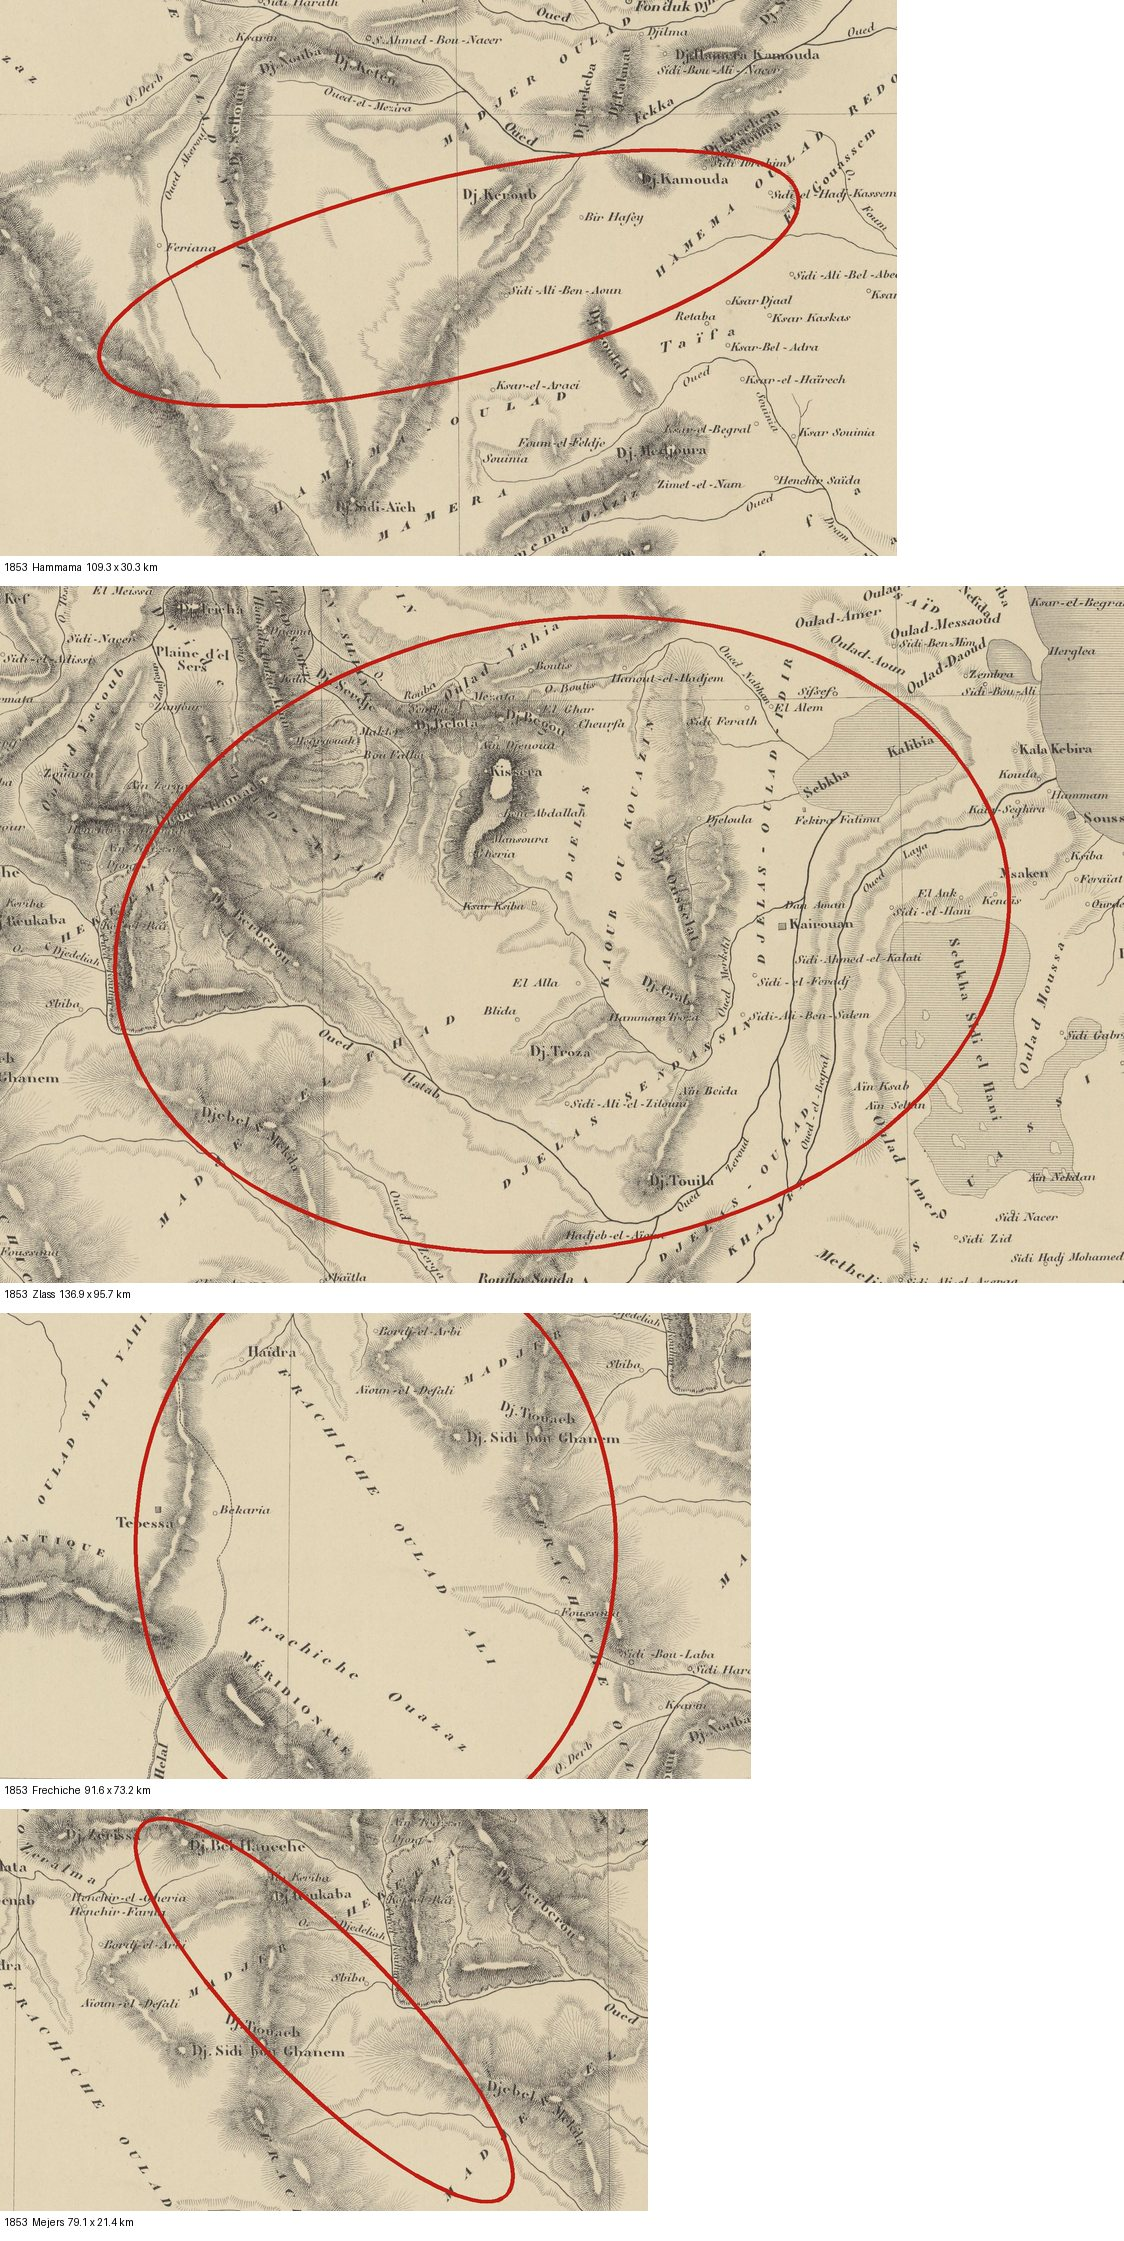
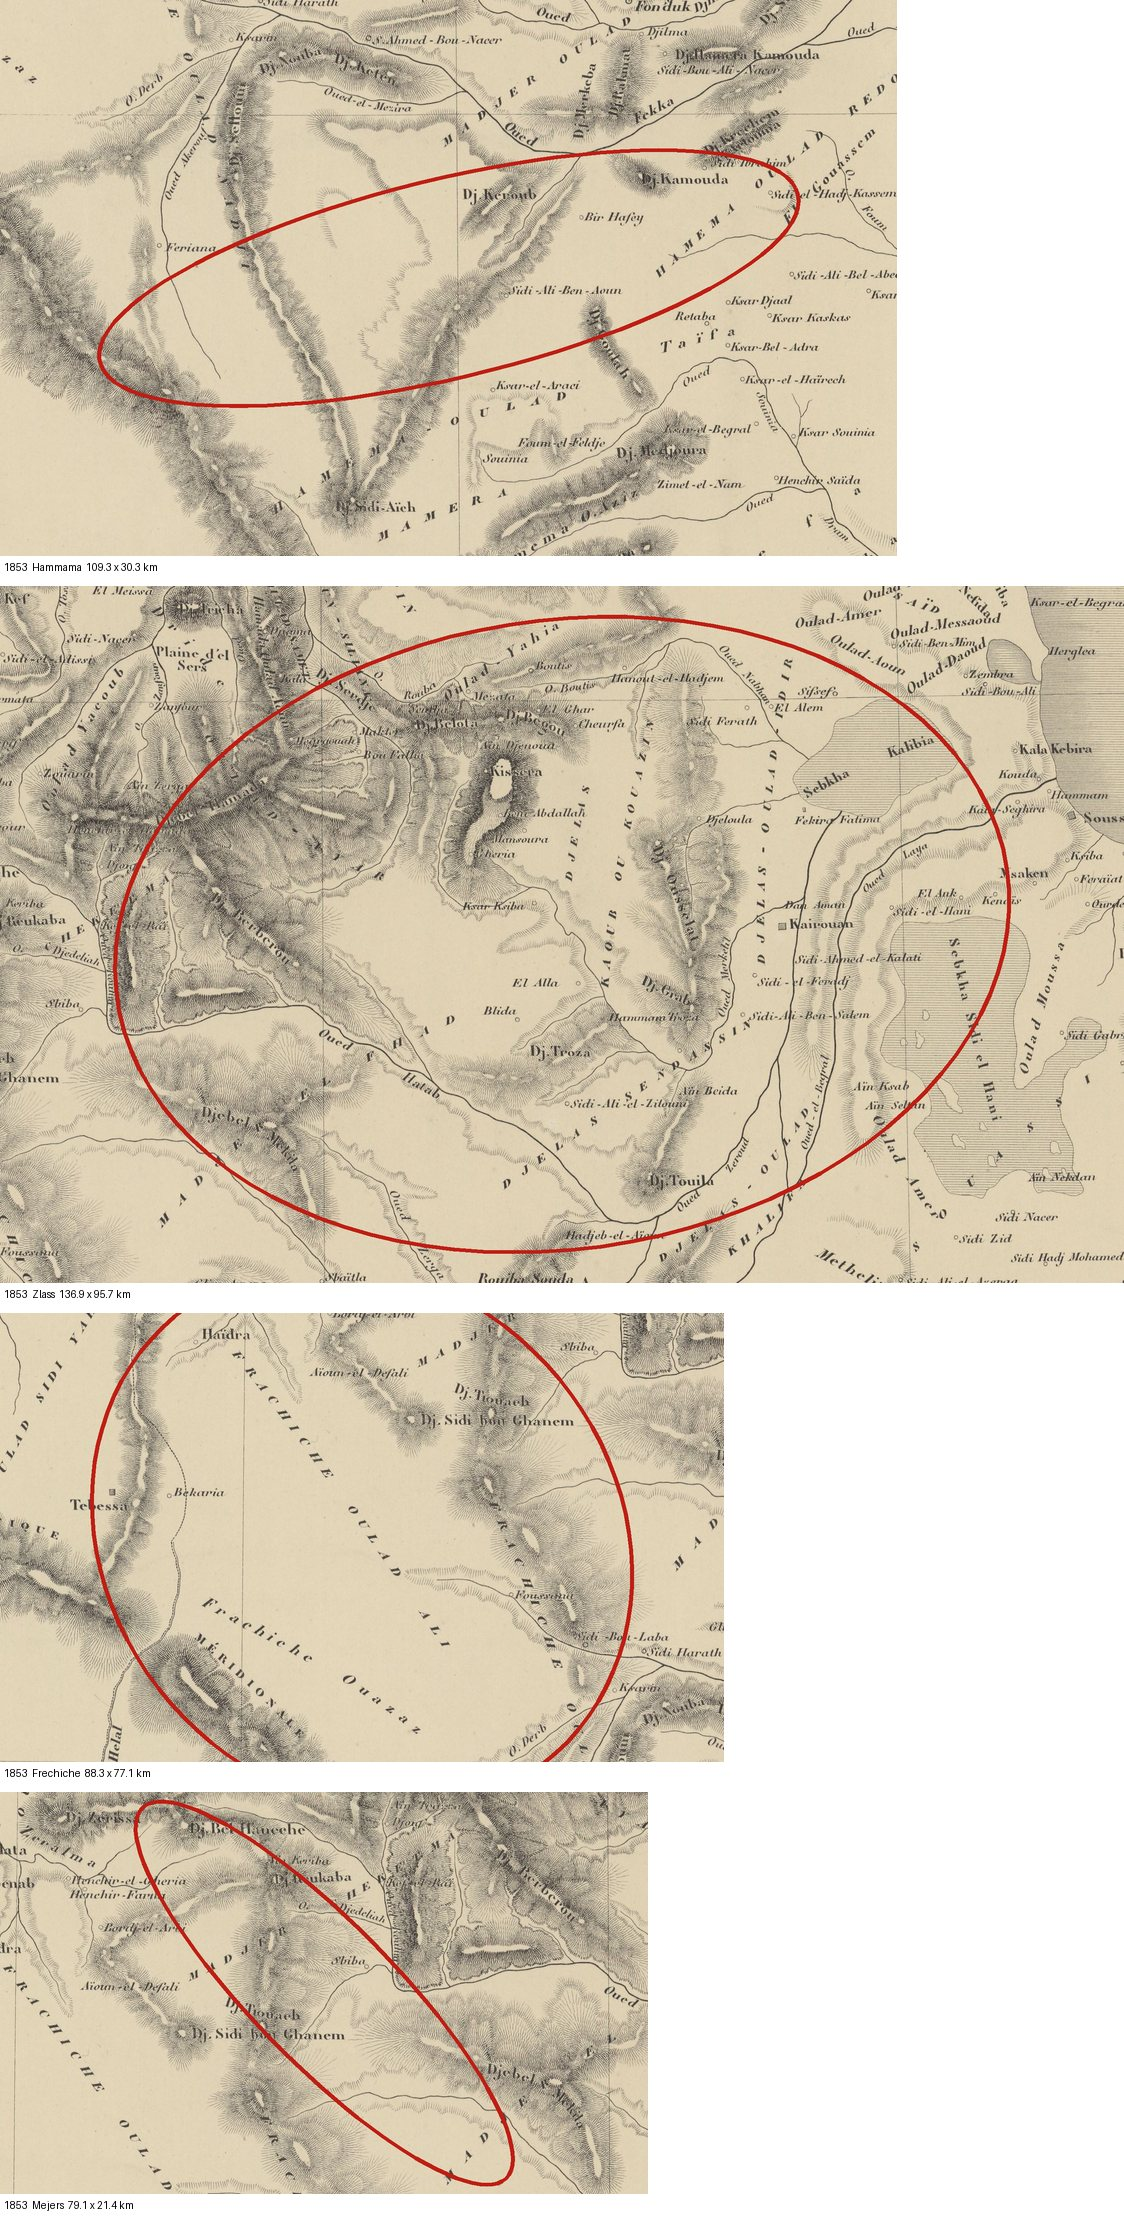
Read the ground again, and find the name the tiles missed
The check said the Frechiche ellipse stopped short of the engraving, so that
ground was read again at 2.25x. Three Frachiche names are printed there, not
two.

FRACHICHE OULAD ALI runs on an arc from (2239, 4363) to (2767, 5018).
Frachiche Ouazaz runs on a second arc from (2203, 4912) to (2681, 5206), with
MERIDIONALE set as a second line beneath it. And a third FRACHICHE is set
vertically from (2836, 4682) to (2991, 5068), east of and parallel to the first,
which the tiled reading of the face had passed over: light spaced capitals
across open ground with no settlement near them, which is the hardest kind of
label to see inside a tile.

The third name is now in config/tribal_labels_read.json at the midpoint of the
word, confidence medium. Only FRACHICHE is recorded; the qualifier running down
the page after it is not legible enough to name, and guessing it would be worse
than leaving it. The tribe's own spread goes from 39.7 to 56.8 km, its ellipse
from 4,500 to 5,349 km2, and the spot check now shows all three printed names
inside it.

This also corrects the last run of the check, which reported the gap as a
missing FRACHICHE MERIDIONALE label. That was wrong. MERIDIONALE is a qualifier
on the Ouazaz name, and the label actually missing was the third, vertical one.
The check report records both the correction and what is printed, so the next
reader does not repeat the mistake.

The 1853 sheet now stands at 46 labels and the collection at 142.
[…]

Changed region(s): [[0.0, 0.031, 1.0, 0.9618], [0.3737, 0.6826, 0.4048, 0.7136]]

diff --git a/scripts/code_tribal_annotation.py b/scripts/code_tribal_annotation.py
@@ -669,14 +669,29 @@ def write_doc(rows: list[dict], summary: dict, inspected: dict, fits: dict,
                 "placements joined by a line, not a territory, and no reader "
                 "should take it for one.")
             add("")
-            add("**And it found a gap in the transcription.** The 1853 sheet "
-                "prints *FRACHICHE MÉRIDIONALE* as well as *FRACHICHE OULAD "
-                "ALI* and *FRACHICHE OUAZAZ*, and only the last two were "
-                "transcribed, so the Frechiche ellipse stops short of the "
-                "ground that sheet gives the tribe, out towards Tebessa. "
-                "Recorded in [`data/tribal_spread_check.json`]"
-                "(../data/tribal_spread_check.json) as a known gap rather than "
-                "patched with a coordinate nobody read.")
+            add("**And it found a name the first reading of the 1853 face had "
+                "missed.** The Frechiche ellipse stopped short of the "
+                "engraving, so that ground was read again at 2.25×. Three "
+                "Frachiche names are printed there, not two: *FRACHICHE OULAD "
+                "ALI* on an arc, *Frachiche Ouazaz* on a second arc with "
+                "*MÉRIDIONALE* set as a second line beneath it, and a third "
+                "*FRACHICHE* set vertically to the east, which the tiled "
+                "reading had passed over. It is light spaced capitals across "
+                "open ground with no settlement near it, which is the hardest "
+                "kind of label to see in a tile.")
+            add("")
+            add("The third name is now in "
+                "[`config/tribal_labels_read.json`](../config/tribal_labels_read.json) "
+                "at the midpoint of the word, confidence medium. Only "
+                "*FRACHICHE* is recorded: the qualifier running down the page "
+                "after it is not legible enough to name. With it the tribe's "
+                "own spread goes from 40 to 57 km and the ellipse now encloses "
+                "all three printed names, which the spot check shows.")
+            add("")
+            add("**A correction to the last run of this check.** It reported "
+                "the gap as a missing *FRACHICHE MÉRIDIONALE* label. That was "
+                "wrong: MÉRIDIONALE is a qualifier on the Ouazaz name, and the "
+                "label actually missing was the third, vertical one.")
             add("")
             add("Ouled Khiar was already known to be two groups sharing a name, "
                 "197 km apart on the two Gallica sheets and 287 km once "

diff --git a/scripts/check_tribal_spread.py b/scripts/check_tribal_spread.py
@@ -269,14 +269,29 @@ def main() -> int:
             "is a 126 by 16 km splinter running from Enfida to past Sousse, "
             "which is two placements joined rather than a territory, and that "
             "is what the flag is for."),
-        "known_gaps": [
-            {"sheet": 1853, "tribe": "Frechiche",
-             "gap": ("The sheet prints FRACHICHE MERIDIONALE as well as "
-                     "FRACHICHE OULAD ALI and FRACHICHE OUAZAZ, and only the "
-                     "last two are transcribed. The ellipse therefore stops "
-                     "short of the ground the 1853 sheet gives the tribe, to "
-                     "the south-west around Tebessa. Found by the spot check, "
-                     "not yet fixed."),
+        "gaps_found_and_closed": [
+            {"sheet": 1853, "tribe": "Frechiche", "status": "closed",
+             "found": ("The spot check showed the Frechiche ellipse stopping "
+                       "short of the engraving. Reading the ground at 2.25x "
+                       "settled what is actually printed there: three Frachiche "
+                       "names, not two."),
+             "what_is_printed": (
+                 "FRACHICHE OULAD ALI on an arc from (2239, 4363) to (2767, "
+                 "5018); Frachiche Ouazaz on a second arc from (2203, 4912) to "
+                 "(2681, 5206) with MERIDIONALE set as a second line beneath "
+                 "it, so MERIDIONALE is a qualifier on that same name and not a "
+                 "label of its own; and a third FRACHICHE set vertically from "
+                 "(2836, 4682) to (2991, 5068), which the first reading of the "
+                 "face missed."),
+             "fix": ("The third name is now in config/tribal_labels_read.json "
+                     "at its midpoint (2913, 4875), confidence medium. Only the "
+                     "word FRACHICHE is recorded: the qualifier running down "
+                     "the page after it is not legible enough to name."),
+             "correction": (
+                 "An earlier run of this check reported the gap as a missing "
+                 "FRACHICHE MERIDIONALE label. That was wrong. MERIDIONALE "
+                 "belongs to the Ouazaz name; the missing label is the third, "
+                 "vertical one."),
              }],
         "_overlays": (
             "The ellipses inverted back onto each Gallica scan in its own "

diff --git a/docs/TRIBES.md b/docs/TRIBES.md
@@ -76,13 +76,13 @@ One map does something else entirely. *Habitation rurale des indigènes* (1930),
 
 ## Two sheets, transcribed
 
-Two of the inspected maps were read label by label and every tribe name given a coordinate: the 1881 Lasailly war-theatre sheet, because it marks its tribes with `(Tribu)` and so needs no judgement, and the 1853 Pellissier, because it is the densest tribal annotation in the collection and the earliest that is systematic. 114 labels in total, 83 of them inside modern Tunisia.
+Two of the inspected maps were read label by label and every tribe name given a coordinate: the 1881 Lasailly war-theatre sheet, because it marks its tribes with `(Tribu)` and so needs no judgement, and the 1853 Pellissier, because it is the densest tribal annotation in the collection and the earliest that is systematic. 115 labels in total, 84 of them inside modern Tunisia.
 
 **The two transcriptions do not cover the same ground.** The 1881 face was read whole, in 20 tiles. The 1853 was read over the Tell, the Kroumirie, the steppe and the Sahel down to about latitude 34 — the country the other sheet also labels — and the Jerid, the Nefzaoua and the Dahar were left unread, the Ouerghemma among them. So the label counts below are not a measure of how much each sheet annotates, and differencing them as coverage would be differencing my reading, not the maps.
 
 | Sheet | Labels | Marked `(Tribu)` | Control towns | In-sample RMS | Leave-one-out RMS |
 | --- | --- | --- | --- | --- | --- |
-| 1853 Carte de la Régence de Tunis / par E. Pellis | 45 | 0 | 10 | 84.7 px (5.8 km) | 119.4 px (8.17 km) |
+| 1853 Carte de la Régence de Tunis / par E. Pellis | 46 | 0 | 10 | 84.7 px (5.8 km) | 119.4 px (8.17 km) |
 | 1881 Carte du théâtre de la guerre en Tunisie / d | 69 | 40 | 7 | 39.6 px (3.16 km) | 77.3 px (6.17 km) |
 
 ![Where two sheets put each tribe's name](img/tribal_territories.png)
@@ -171,7 +171,7 @@ Evidence from all three sheets counts at once, so a tribe named by Pellissier in
 | Adhara | 100 × 100 km, 7,877 km², stopped by the Merazig |
 | Ouerghemma | 121 × 74 km, 7,054 km², stopped by the Hazem |
 
-**This is deliberately the largest reading the sheets will carry.** Nothing is clipped to the modern frontier, which 34 of the 141 labels sit west of. Ellipses overlap where the sheets disagree or where tribes interleaved, and the overlap is left to be seen rather than resolved, because no sheet in this collection says where one tribe stopped and the next began.
+**This is deliberately the largest reading the sheets will carry.** Nothing is clipped to the modern frontier, which 34 of the 142 labels sit west of. Ellipses overlap where the sheets disagree or where tribes interleaved, and the overlap is left to be seen rather than resolved, because no sheet in this collection says where one tribe stopped and the next began.
 
 Per-tribe results are in [`data/tribal_spread.csv`](../data/tribal_spread.csv), with the axes, the area, how far the ellipse grew and what stopped it.
 
@@ -198,7 +198,11 @@ The two rules are tested rather than trusted. **Rule 1 holds for all 88**: no tr
 
 **The spot check settles what the flag is for.** Souassi's ellipse is a 126 by 16 km splinter running from Enfida down past Sousse, because Lasailly prints SOUASSI by Enfida while Pellissier and Martel put it in the Sahel. That is two placements joined by a line, not a territory, and no reader should take it for one.
 
-**And it found a gap in the transcription.** The 1853 sheet prints *FRACHICHE MÉRIDIONALE* as well as *FRACHICHE OULAD ALI* and *FRACHICHE OUAZAZ*, and only the last two were transcribed, so the Frechiche ellipse stops short of the ground that sheet gives the tribe, out towards Tebessa. Recorded in [`data/tribal_spread_check.json`](../data/tribal_spread_check.json) as a known gap rather than patched with a coordinate nobody read.
+**And it found a name the first reading of the 1853 face had missed.** The Frechiche ellipse stopped short of the engraving, so that ground was read again at 2.25×. Three Frachiche names are printed there, not two: *FRACHICHE OULAD ALI* on an arc, *Frachiche Ouazaz* on a second arc with *MÉRIDIONALE* set as a second line beneath it, and a third *FRACHICHE* set vertically to the east, which the tiled reading had passed over. It is light spaced capitals across open ground with no settlement near it, which is the hardest kind of label to see in a tile.
+
+The third name is now in [`config/tribal_labels_read.json`](../config/tribal_labels_read.json) at the midpoint of the word, confidence medium. Only *FRACHICHE* is recorded: the qualifier running down the page after it is not legible enough to name. With it the tribe's own spread goes from 40 to 57 km and the ellipse now encloses all three printed names, which the spot check shows.
+
+**A correction to the last run of this check.** It reported the gap as a missing *FRACHICHE MÉRIDIONALE* label. That was wrong: MÉRIDIONALE is a qualifier on the Ouazaz name, and the label actually missing was the third, vertical one.
 
 Ouled Khiar was already known to be two groups sharing a name, 197 km apart on the two Gallica sheets and 287 km once Martel's placement joins them. **Ouled Sdira at 211 km is the new one**, and Souassi at 126 km and Riah at 119 km are the next candidates. None of them is split in the gazetteer, because splitting would be a claim about the tribes rather than about the maps; they are flagged instead, drawn dashed on the figure and counted in `encloses_other_tribes`.
 

diff --git a/README.md b/README.md
@@ -428,10 +428,14 @@ tests both rules. Rule 1 holds for all 88. Rule 2 fails for 18, and those
 failures are the finding: a tribe whose compilers put its name 200 km apart has
 an ellipse that cannot help covering its neighbours. **Ouled Khiar spans 287 km,
 Ouled Sdira 211, Souassi 126, Riah 119** — suspected name collisions rather than
-territories, drawn dashed and flagged in the table. The check also caught a gap
-in the transcription: the 1853 sheet prints *FRACHICHE MÉRIDIONALE* alongside
-the two Frachiche names that were read, so that ellipse stops short of the
-ground the sheet gives the tribe.
+territories, drawn dashed and flagged in the table.
+
+The check also caught a name the first reading of the 1853 face had missed. The
+Frechiche ellipse stopped short of the engraving, so that ground was read again
+at 2.25×: three Frachiche names are printed there, not two, the third set
+vertically in light spaced capitals across open country with no settlement near
+it. It is now transcribed, the tribe's own spread goes from 40 to 57 km, and the
+ellipse encloses all three names.
 
 The nearest-name index at imada level is kept as a table:
 [`data/tribal_imada_assignment.csv`](data/tribal_imada_assignment.csv), each
